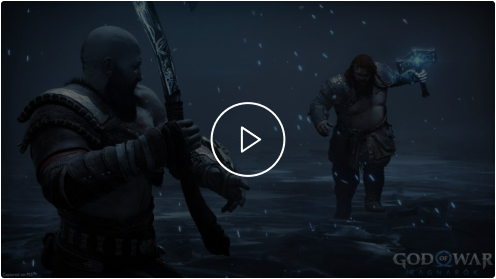
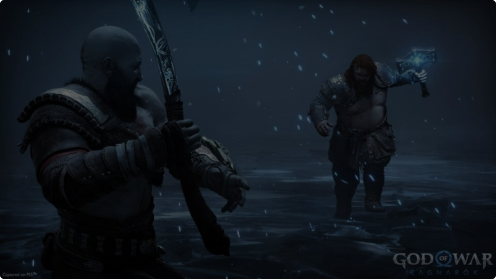
added styles for video player

diff --git a/index.html b/index.html
@@ -10,6 +10,7 @@
     <link href="https://fonts.googleapis.com/css2?family=Cinzel:wght@700&family=Inter&display=swap" rel="stylesheet">
     <link rel="stylesheet" href="./styles/normilize.css">
     <link rel="stylesheet" href="./styles/style.css">
+    <link href="https://vjs.zencdn.net/8.0.4/video-js.css" rel="stylesheet" />
     <link rel="stylesheet" type="text/css" href="slick/slick.css" />
     <link rel="stylesheet" type="text/css" href="slick/slick-theme.css" />
 
@@ -63,8 +64,18 @@
                         </div>
                         <div class="main_video-box">
                             <div class="main_video">
-                                <video src="./assets/videoes/God of War – Story Trailer _ PS4.mp4" width="496"
-                                    height="279" controls poster="./assets/images/poster.png" muted></video>
+                                <video 
+                                    src="./assets/videoes/God of War – Story Trailer _ PS4.mp4" 
+                                    muted
+                                    id="my-video"
+                                    class="video-js"
+                                    controls
+                                    preload="auto"
+                                    width="496"
+                                    height="279"
+                                    poster="./assets/images/poster.png"
+                                    data-setup="{}">
+                                </video>
                             </div>
                         </div>
                     </div>
@@ -200,7 +211,7 @@
         </div>
     </section>
 
-
+    <script src="https://vjs.zencdn.net/8.0.4/video.min.js"></script>
     <script type="text/javascript" src="//code.jquery.com/jquery-3.6.3.min.js"></script>
     <script type="text/javascript" src="slick/slick.min.js"></script>
     <script src="./js/main.js"></script>

diff --git a/styles/style.css b/styles/style.css
@@ -186,7 +186,7 @@ body {
 .heroes_title {
     text-align: center;
     font-size: 26px;
-    margin-bottom: 164px;
+    margin-bottom: 24px;
 }
 
 .heroes_img img {
